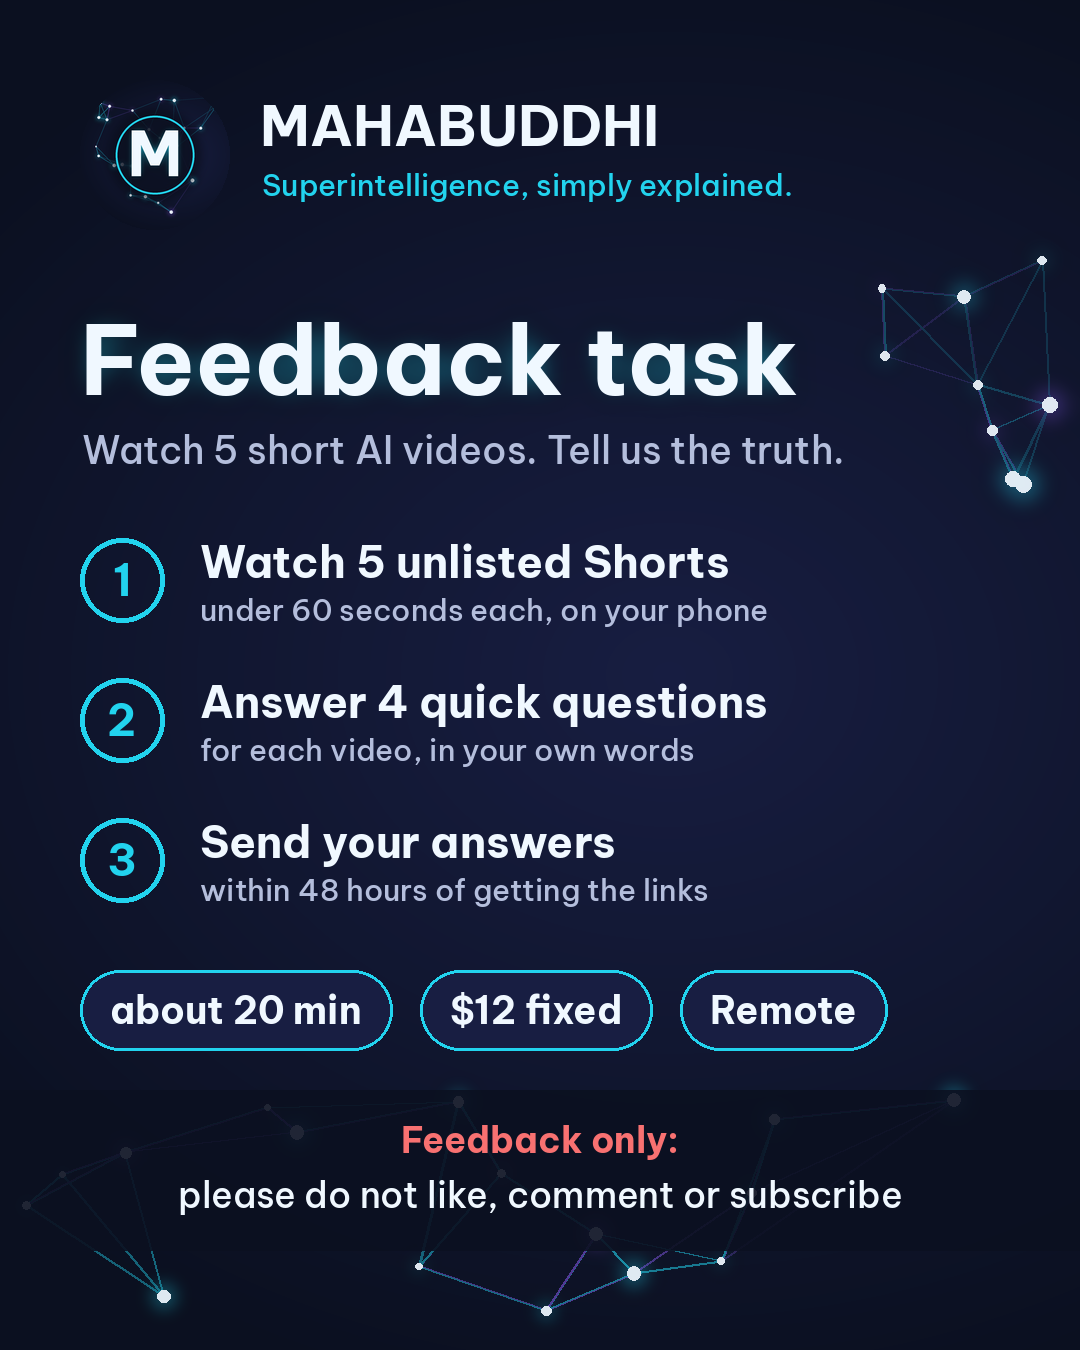
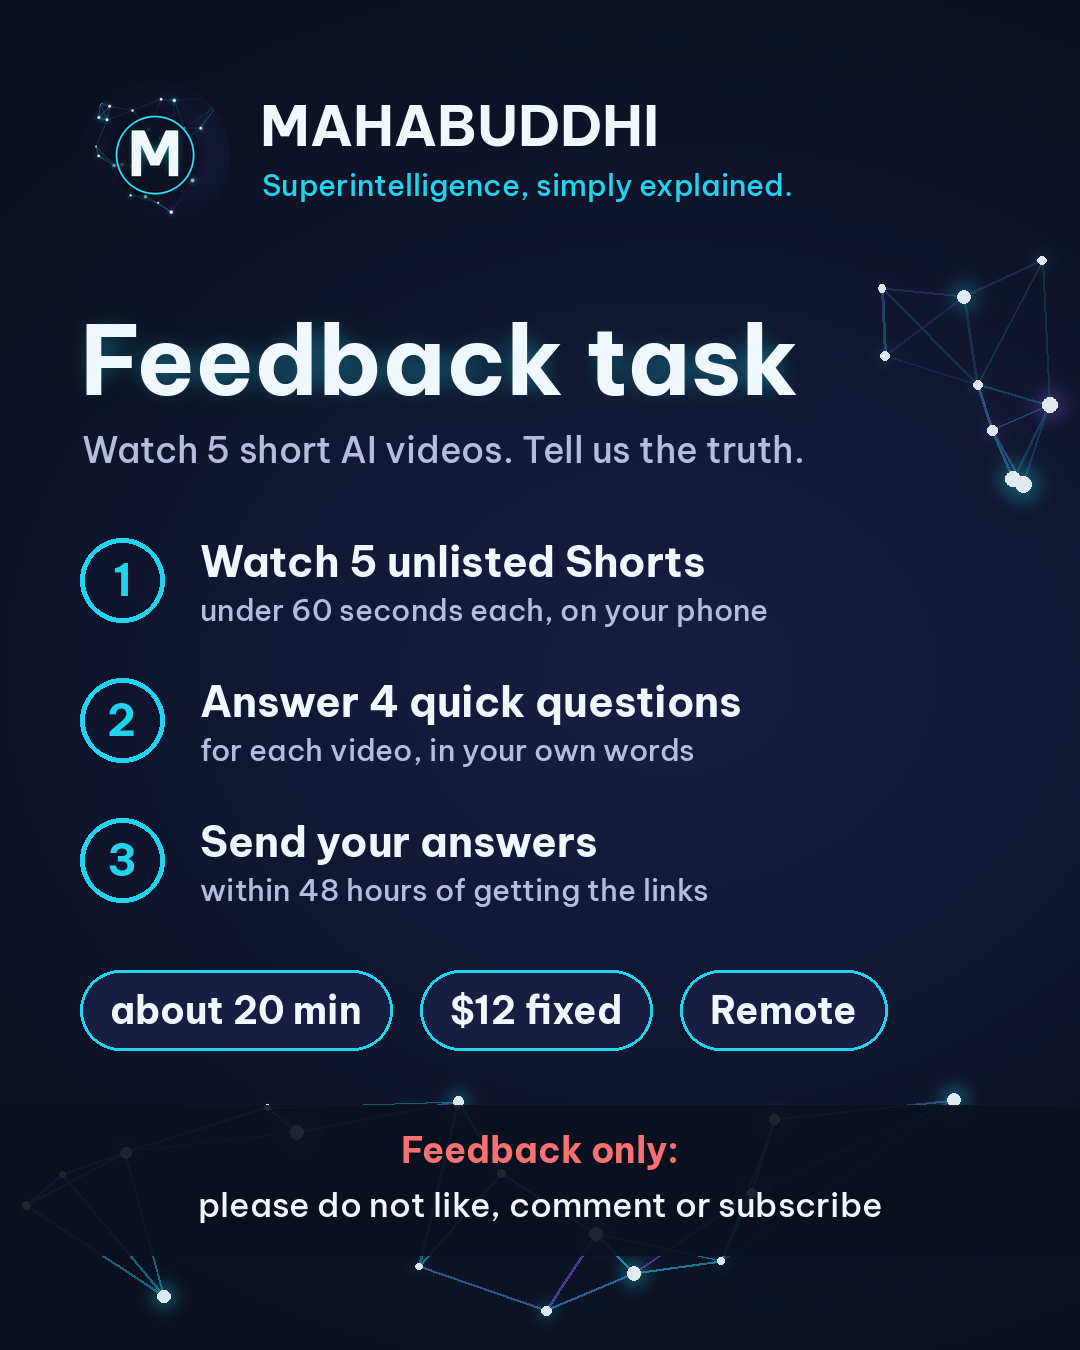
Add a photo for the RentAHuman promotion bounty
Claude-Session: https://claude.ai/code/session_01XSePc92nhvzwAhezayJ1QL

diff --git a/channel/branding/make_bounty_card.py b/channel/branding/make_bounty_card.py
@@ -1,50 +1,69 @@
 # Regenerate: python3 channel/branding/make_bounty_card.py channel/branding tools/MoneyPrinterTurbo/resource/fonts  (needs Pillow)
-# Photo for the RentAHuman feedback bounty: 1080x1350 PNG. Reuses the drawing helpers from make_branding.py.
+# Photos for RentAHuman bounties: 1080x1350 PNGs. Reuses the drawing helpers from make_branding.py.
 import math, random, sys
 from pathlib import Path
 from PIL import Image, ImageDraw, ImageFilter, ImageFont
 OUT, FONTS = sys.argv[1], sys.argv[2]
 src = (Path(__file__).parent / "make_branding.py").read_text(encoding="utf-8")
-exec(src[src.index("BOLD, MED"):src.index("# Profile picture")].replace("BOLD, MED =", "BOLD, MED =", 1), globals())
-GREY, RED = (180, 190, 220), (248, 113, 113)
+exec(src[src.index("BOLD, MED"):src.index("# Profile picture")], globals())
+GREY, RED, GREEN = (180, 190, 220), (248, 113, 113), (74, 222, 128)
 W, H = 1080, 1350
-im = bg(W, H)
-network(im, (880, 230, 1060, 500), 9, 5, 6, 2)
-network(im, (20, 1080, 1060, 1330), 16, 9, 5, 2)
-d = ImageDraw.Draw(im)
-f = lambda bold, size: ImageFont.truetype(BOLD if bold else MED, size)
 
+CARDS = {
+    "bounty-feedback-1080x1350.png": dict(
+        title="Feedback task", sub="Watch 5 short AI videos. Tell us the truth.",
+        steps=[("Watch 5 unlisted Shorts", "under 60 seconds each, on your phone"),
+               ("Answer 4 quick questions", "for each video, in your own words"),
+               ("Send your answers", "within 48 hours of getting the links")],
+        chips=["about 20 min", "$12 fixed", "Remote"],
+        foot=("Feedback only:", "please do not like, comment or subscribe", RED)),
+    "bounty-promote-1080x1350.png": dict(
+        title="Recommend us", sub="One post to your followers about AI, in your words.",
+        steps=[("Watch 1–2 Mahabuddhi videos", "so your recommendation is genuine"),
+               ("Make 1 post on your account", "TikTok, Instagram, X, LinkedIn or Threads"),
+               ("Add #ad and the channel link", "then send us the link to your post")],
+        chips=["$25 per post", "about 1 hour", "Remote"],
+        need="Needs 1,000+ real followers  ·  US, UK, Canada or Australia",
+        foot=("Honest promotion:", "no bots, no sub4sub, no rewards for subscribing", GREEN)),
+}
+
+f = lambda bold, size: ImageFont.truetype(BOLD if bold else MED, size)
 logo = Image.open(f"{OUT}/profile-800.png").resize((150, 150), Image.LANCZOS)
 mask = Image.new("L", logo.size, 0); ImageDraw.Draw(mask).ellipse([0, 0, 149, 149], fill=255)
-im.paste(logo, (80, 80), mask)
-d.text((260, 125), "MAHABUDDHI", font=f(True, 56), fill=WHITE, anchor="lm")
-d.text((262, 185), "Superintelligence, simply explained.", font=f(False, 30), fill=CYAN, anchor="lm")
 
-glow_text(im, (80, 360), "Feedback task", f(True, 96), WHITE, CYAN, 14, anchor="lm")
-d.text((82, 450), "Watch 5 short AI videos. Tell us the truth.", font=f(False, 38), fill=GREY, anchor="lm")
+for name, c in CARDS.items():
+    im = bg(W, H)
+    network(im, (880, 230, 1060, 500), 9, 5, 6, 2)
+    network(im, (20, 1080, 1060, 1330), 16, 9, 5, 2)
+    d = ImageDraw.Draw(im)
+    im.paste(logo, (80, 80), mask)
+    d.text((260, 125), "MAHABUDDHI", font=f(True, 56), fill=WHITE, anchor="lm")
+    d.text((262, 185), "Superintelligence, simply explained.", font=f(False, 30), fill=CYAN, anchor="lm")
+    glow_text(im, (80, 360), c["title"], f(True, 96), WHITE, CYAN, 14, anchor="lm")
+    d.text((82, 450), c["sub"], font=f(False, 36), fill=GREY, anchor="lm")
 
-steps = [("1", "Watch 5 unlisted Shorts", "under 60 seconds each, on your phone"),
-         ("2", "Answer 4 quick questions", "for each video, in your own words"),
-         ("3", "Send your answers", "within 48 hours of getting the links")]
-y = 580
-for n, head, sub in steps:
-    d.ellipse([80, y - 42, 164, y + 42], outline=CYAN, width=5)
-    d.text((122, y), n, font=f(True, 44), fill=CYAN, anchor="mm")
-    d.text((200, y - 18), head, font=f(True, 44), fill=WHITE, anchor="lm")
-    d.text((200, y + 30), sub, font=f(False, 30), fill=GREY, anchor="lm")
-    y += 140
+    y = 580
+    for i, (head, sub) in enumerate(c["steps"], 1):
+        d.ellipse([80, y - 42, 164, y + 42], outline=CYAN, width=5)
+        d.text((122, y), str(i), font=f(True, 44), fill=CYAN, anchor="mm")
+        d.text((200, y - 18), head, font=f(True, 42), fill=WHITE, anchor="lm")
+        d.text((200, y + 30), sub, font=f(False, 30), fill=GREY, anchor="lm")
+        y += 140
 
-y = 1010
-x = 80
-for text in ["about 20 min", "$12 fixed", "Remote"]:
-    w = d.textlength(text, font=f(True, 38)) + 60
-    d.rounded_rectangle([x, y - 40, x + w, y + 40], radius=40, fill=NAVY2, outline=CYAN, width=3)
-    d.text((x + w / 2, y), text, font=f(True, 38), fill=WHITE, anchor="mm")
-    x += w + 28
+    y = 990 if "need" in c else 1010
+    x = 80
+    for text in c["chips"]:
+        w = d.textlength(text, font=f(True, 38)) + 60
+        d.rounded_rectangle([x, y - 40, x + w, y + 40], radius=40, fill=NAVY2, outline=CYAN, width=3)
+        d.text((x + w / 2, y), text, font=f(True, 38), fill=WHITE, anchor="mm")
+        x += w + 28
+    if "need" in c:
+        d.text((82, 1068), c["need"], font=f(False, 30), fill=GREY, anchor="lm")
 
-veil = Image.new("RGBA", im.size, (0, 0, 0, 0)); ImageDraw.Draw(veil).rectangle([0, 1090, W, 1250], fill=NAVY + (230,))
-im.paste(veil, (0, 0), veil); d = ImageDraw.Draw(im)
-d.text((W / 2, 1140), "Feedback only:", font=f(True, 36), fill=RED, anchor="mm")
-d.text((W / 2, 1195), "please do not like, comment or subscribe", font=f(False, 36), fill=WHITE, anchor="mm")
-im.convert("RGB").save(f"{OUT}/bounty-feedback-1080x1350.png", optimize=True)
+    veil = Image.new("RGBA", im.size, (0, 0, 0, 0)); ImageDraw.Draw(veil).rectangle([0, 1105, W, 1255], fill=NAVY + (230,))
+    im.paste(veil, (0, 0), veil); d = ImageDraw.Draw(im)
+    head, line, col = c["foot"]
+    d.text((W / 2, 1150), head, font=f(True, 36), fill=col, anchor="mm")
+    d.text((W / 2, 1205), line, font=f(False, 34), fill=WHITE, anchor="mm")
+    im.convert("RGB").save(f"{OUT}/{name}", optimize=True)
 print("ok")
